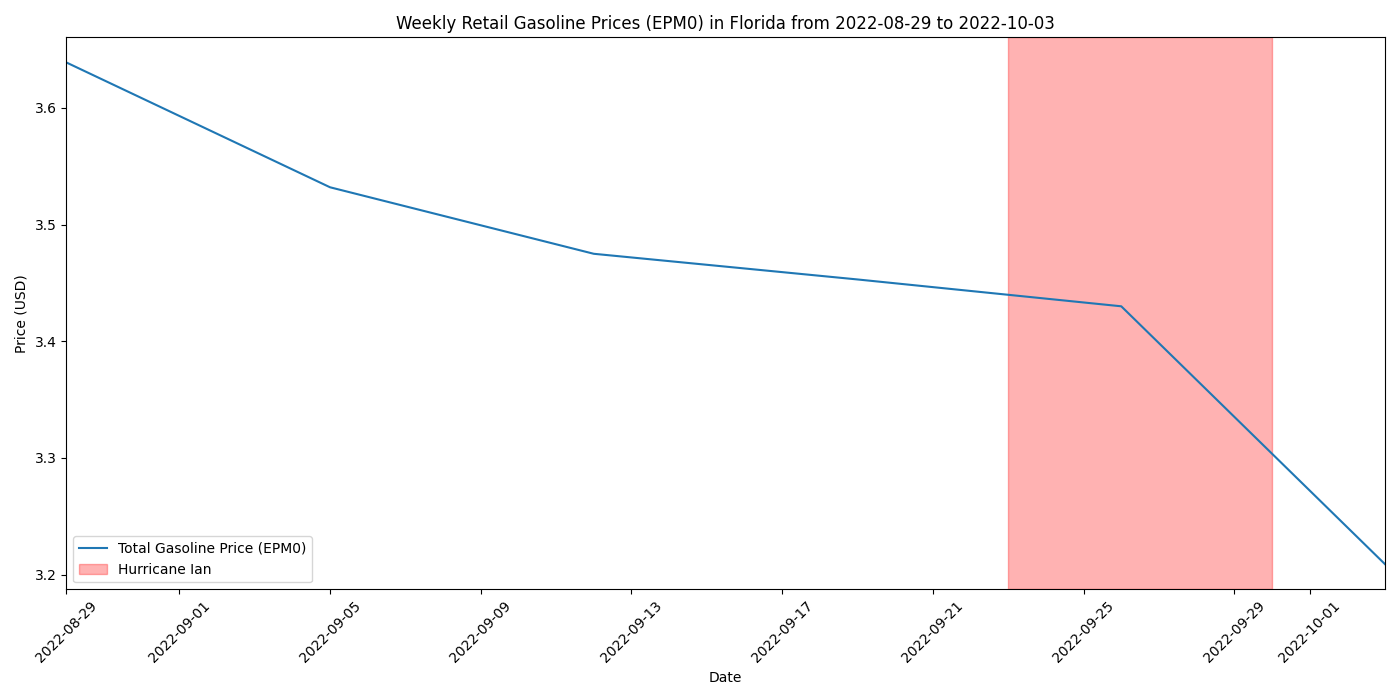
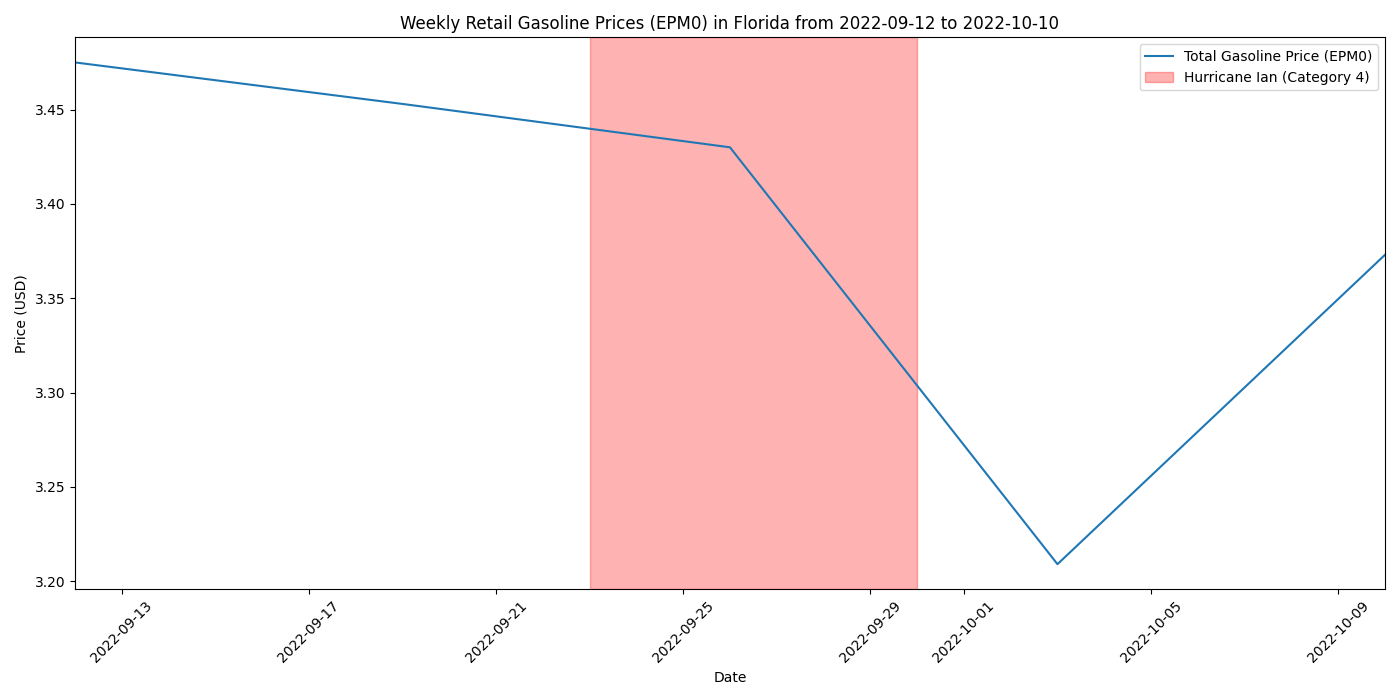
Updated data and added example scripts.

diff --git a/analyze_data_bars.py b/analyze_data_bars.py
@@ -1,0 +1,83 @@
+import pandas as pd
+import matplotlib.pyplot as plt
+
+# List of CSV file names
+csv_files = [
+    'eia_gasoline_prices_irma.csv',
+    'eia_gasoline_prices_michael.csv',
+    'eia_gasoline_prices_sally.csv',
+    'eia_gasoline_prices_ian.csv',
+    'eia_gasoline_prices_nicole.csv'
+]
+
+# Set hurricane date ranges and names for each file
+hurricane_info = {
+    'eia_gasoline_prices_irma.csv': ('2017-09-04', '2017-09-11', 'Hurricane Irma'),
+    'eia_gasoline_prices_michael.csv': ('2018-10-07', '2018-10-11', 'Hurricane Michael'),
+    'eia_gasoline_prices_sally.csv': ('2020-09-11', '2020-09-16', 'Hurricane Sally'),
+    'eia_gasoline_prices_ian.csv': ('2022-09-23', '2022-09-30', 'Hurricane Ian'),
+    'eia_gasoline_prices_nicole.csv': ('2022-11-07', '2022-11-11', 'Hurricane Nicole')
+}
+
+def calculate_averages(df, start_date, end_date):
+    # Convert the period column to datetime format
+    df['period'] = pd.to_datetime(df['period'])
+
+    # Calculate average total price
+    avg_total_price = df['value'].mean()
+
+    # Calculate average price during hurricane
+    mask_hurricane = (df['period'] >= start_date) & (df['period'] <= end_date)
+    avg_hurricane_price = df.loc[mask_hurricane, 'value'].mean() if not df.loc[mask_hurricane].empty else 0
+
+    return avg_total_price, avg_hurricane_price
+
+def plot_bar_charts_to_png():
+    # Initialize lists to hold the data
+    labels = []
+    avg_total_prices = []
+    avg_hurricane_prices = []
+
+    for csv_file in csv_files:
+        try:
+            df_prices = pd.read_csv(csv_file)
+
+            # Get hurricane dates and name for the current file
+            if csv_file in hurricane_info:
+                highlight_start_date, highlight_end_date, hurricane_name = hurricane_info[csv_file]
+            else:
+                print(f"No hurricane info defined for {csv_file}")
+                continue
+
+            # Calculate averages
+            avg_total_price, avg_hurricane_price = calculate_averages(df_prices, highlight_start_date, highlight_end_date)
+
+            # Store the results
+            labels.append(hurricane_name)
+            avg_total_prices.append(avg_total_price)
+            avg_hurricane_prices.append(avg_hurricane_price)
+
+        except Exception as e:
+            print(f"Error processing {csv_file}: {e}")
+
+    # Plot all data on a single graph
+    x = range(len(labels))  # Position of bars
+
+    plt.figure(figsize=(14, 7))
+    plt.bar(x, avg_total_prices, width=0.4, color='blue', label='Average Price Between 4 Weeks', align='center')
+    plt.bar([p + 0.4 for p in x], avg_hurricane_prices, width=0.4, color='red', label='Average Price During Hurricane', align='center')
+
+    # Add labels and title
+    plt.xlabel('Hurricane')
+    plt.ylabel('Price (USD)')
+    plt.title('Average Gasoline Prices in Florida')
+    plt.xticks([p + 0.2 for p in x], labels, rotation=45)
+    plt.legend()
+
+    # Save and show the plot
+    plt.tight_layout()
+    plt.savefig('combined_eia_gasoline_prices.png')
+    plt.close()
+
+# Generate and save the combined bar chart
+plot_bar_charts_to_png()

diff --git a/analyze_data_example.py b/analyze_data_example.py
@@ -1,0 +1,43 @@
+import pandas as pd
+import matplotlib.pyplot as plt
+import seaborn as sns
+
+# Read the data from the CSV file
+df_prices = pd.read_csv('eia_gasoline_prices_example.csv')
+
+# Convert the period column to datetime format
+df_prices['period'] = pd.to_datetime(df_prices['period'])
+
+# Define the date range for the plot
+plot_start_date = '2022-09-12'
+plot_end_date = '2022-10-10'
+
+# Filter the DataFrame based on the plot date range
+mask_plot = (df_prices['period'] >= plot_start_date) & (df_prices['period'] <= plot_end_date)
+df_plot_filtered = df_prices[mask_plot]
+
+# Define the date range to highlight in red
+highlight_start_date = '2022-09-23'
+highlight_end_date = '2022-09-30'
+
+# Plot gasoline prices over the filtered date range
+plt.figure(figsize=(14, 7))
+sns.lineplot(data=df_plot_filtered, x='period', y='value', label='Total Gasoline Price (EPM0)')
+
+# Add a shaded region to highlight the specific date range
+plt.axvspan(pd.to_datetime(highlight_start_date), pd.to_datetime(highlight_end_date), color='red', alpha=0.3, label='Hurricane Ian (Category 4)')
+
+# Title and labels
+plt.title(f'Weekly Retail Gasoline Prices (EPM0) in Florida from {plot_start_date} to {plot_end_date}')
+plt.xlabel('Date')
+plt.ylabel('Price (USD)')
+plt.xticks(rotation=45)
+plt.legend()
+plt.tight_layout()
+
+# Set x-axis limits
+plt.xlim(pd.to_datetime(plot_start_date), pd.to_datetime(plot_end_date))
+
+# Save and show the plot
+plt.savefig('eia_gasoline_prices_example_plot.png')
+plt.show()

diff --git a/fetch_eia_data_example.py b/fetch_eia_data_example.py
@@ -1,0 +1,45 @@
+import requests
+import pandas as pd
+
+# Your EIA API key
+api_key = 'INSERT_YOUR_API_KEY_HERE'
+
+# EIA API URL with the API key and updated for Total Gasoline (EPM0) in Florida
+# Note: EIA weekly frequency are every Monday of the week
+api_url = f'https://api.eia.gov/v2/petroleum/pri/gnd/data/?api_key={api_key}&frequency=weekly&data[0]=value&facets[product][]=EPM0&facets[series][]=EMM_EPM0_PTE_SFL_DPG&start=2022-08-29&end=2022-10-03&sort[0][column]=period&sort[0][direction]=desc&offset=0&length=5000'
+
+# Fetch the data from the API
+response = requests.get(api_url)
+data = response.json()
+
+# Check if the API request was successful
+if response.status_code != 200:
+    print(f"Error fetching data: {response.status_code}")
+    print(data)
+    exit()
+
+# Extract the data
+if 'response' in data and 'data' in data['response']:
+    records = data['response']['data']
+else:
+    print("No data found in API response.")
+    exit()
+
+# Check if the records are empty
+if not records:
+    print("No records found in the API response.")
+    exit()
+
+# Convert to pandas DataFrame
+df_prices = pd.DataFrame(records)
+
+# Debugging: Print the DataFrame
+print(df_prices.head())
+
+# Save the DataFrame to a CSV file
+csv_file = 'eia_gasoline_prices_example.csv'
+try:
+    df_prices.to_csv(csv_file, index=False)
+    print(f"Data fetched and saved to {csv_file}")
+except Exception as e:
+    print(f"Error saving data to CSV: {e}")
